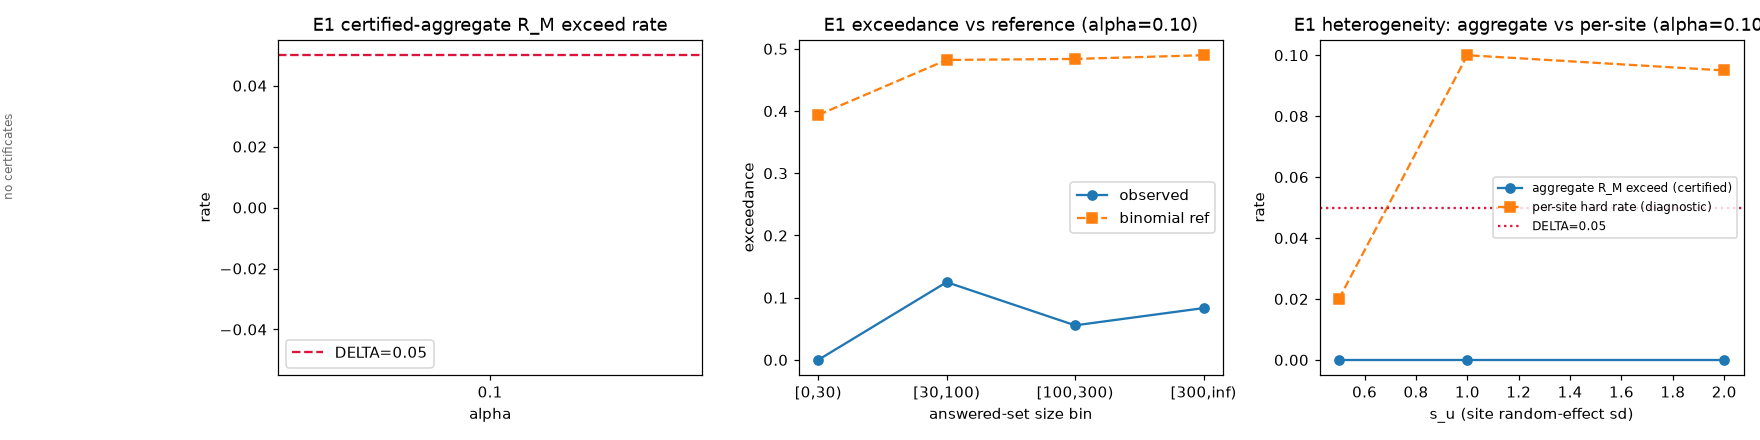
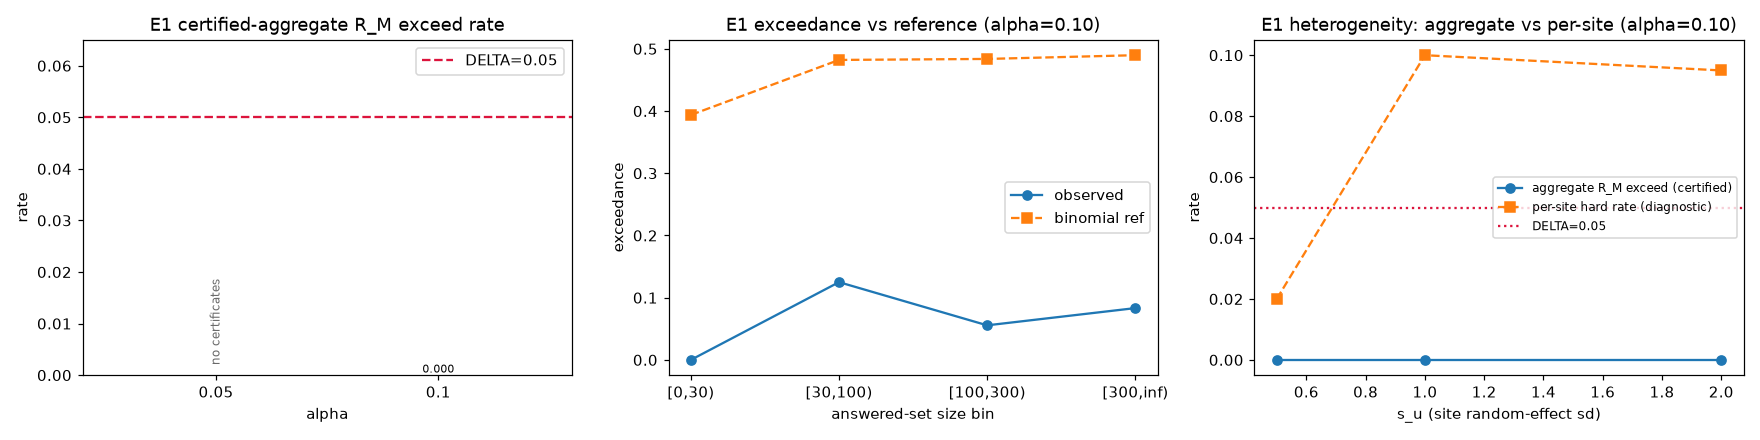
figures: E1/E2/E3 rendering defects fixed; E4 operating-point guide; E6 coverage panel
Numeric category axes so a nan bar cannot eat its tick; "no certificates"
markers moved into axes coordinates (get_xaxis_transform); real bars value-
labeled so a true 0.0 is a labeled zero, not an absence; explicit xlim/ylim
so autoscale cannot clip annotations. E2 gains an on-figure BBSE decline
annotation computed from the run summary (correct under --quick) and a
null-shift guide; E3 title shortened to render in full; E4 marks the
208-site operating point; E6 gains the per-site-coverage panel.

Full R=200 grid re-run: every CSV/JSON byte-identical, summary.md moved
only its _run.utc stamps (and shed the stale "(preserved)" headers from
the last partial rerun), provenance.json now records the whole grid.

diff --git a/experiments/run_synthetic.py b/experiments/run_synthetic.py
@@ -293,13 +293,21 @@ def run_E1(out, quick):
     fig, ax = plt.subplots(1, 3, figsize=(16, 4))
     alphas = list(ALPHA_LADDER)
     rm_bars = [summary[a]["rm_exceed_rate"] for a in alphas]
-    ax[0].bar([str(a) for a in alphas],
-              [np.nan if v is None else v for v in rm_bars],
+    xpos = np.arange(len(alphas))   # numeric x: a nan bar must not eat its tick
+    ax[0].bar(xpos, [np.nan if v is None else v for v in rm_bars],
               color="#4477aa")
+    ax[0].set_xticks(xpos); ax[0].set_xticklabels([str(a) for a in alphas])
+    ax[0].set_xlim(-0.6, len(alphas) - 0.4)   # autoscale ignores the nan bars
+    real = [v for v in rm_bars if v is not None]
+    ax[0].set_ylim(0.0, max(real + [DELTA]) * 1.3)
     for i, v in enumerate(rm_bars):
         if v is None:                     # rung never certified: no bar, say so
-            ax[0].text(i, DELTA * 0.05, "no certificates", ha="center",
-                       va="bottom", rotation=90, fontsize=8, color="dimgray")
+            ax[0].text(i, 0.03, "no certificates", ha="center",
+                       va="bottom", rotation=90, fontsize=8, color="dimgray",
+                       transform=ax[0].get_xaxis_transform())
+        else:                             # a true 0.0 bar has zero height --
+            ax[0].text(i, v, f"{v:.3f}",  # label it or it reads as absence
+                       ha="center", va="bottom", fontsize=7)
     ax[0].axhline(DELTA, color="crimson", ls="--", label=f"DELTA={DELTA}")
     ax[0].set_title("E1 certified-aggregate R_M exceed rate")
     ax[0].set_xlabel("alpha"); ax[0].set_ylabel("rate"); ax[0].legend()
@@ -443,14 +451,29 @@ def run_E2(out, quick):
                   width, label=mode, color=color)
         for i, v in enumerate(vals):
             if v is None:                 # rung never certified: no bar, say so
-                ax[0].text(xpos[i] + dx, DELTA * 0.05, "no certificates",
+                ax[0].text(xpos[i] + dx, 0.03, "no certificates",
                            ha="center", va="bottom", rotation=90, fontsize=7,
-                           color="dimgray")
+                           color="dimgray",
+                           transform=ax[0].get_xaxis_transform())
+            else:                         # a true 0.0 bar has zero height --
+                ax[0].text(xpos[i] + dx, v, f"{v:.3f}",   # label it or it reads
+                           ha="center", va="bottom", fontsize=6)  # as absence
     ax[0].axhline(DELTA, color="black", ls="--", label=f"DELTA={DELTA}")
     ax[0].set_xticks(xpos); ax[0].set_xticklabels([str(a) for a in alphas])
+    ax[0].set_xlim(-0.6, len(alphas) - 0.4)   # autoscale ignores the nan bars
+    real = [summary[m][a]["hard_violation_rate"]
+            for m in ("baseline", "bbse") for a in alphas
+            if summary[m][a]["hard_violation_rate"] is not None]
+    ax[0].set_ylim(0.0, max(real + [DELTA]) * 1.3)
     ax[0].set_title(f"E2 hard-violation rate at shift -> {SHIFT_BASE}")
     ax[0].set_xlabel("alpha"); ax[0].set_ylabel("hard-violation rate")
     ax[0].legend()
+    bb = summary["bbse"][0.10]            # computed, not copied: stays correct
+    ax[0].text(0.02, 0.98,                # under --quick's smaller R
+               f"BBSE at this shift: declined {R - bb['n_certified']}/{R}, "
+               f"certify-and-violate {bb['joint_certify_and_hard_rate']:.3f}",
+               transform=ax[0].transAxes, ha="left", va="top", fontsize=7,
+               color="#4477aa")
     bases = [e["target_base"] for e in sweep]
     _p = lambda v: np.nan if v is None else v
     ax[1].plot(bases, [_p(e["baseline"]["hard_violation_rate"])
@@ -464,6 +487,8 @@ def run_E2(out, quick):
                        for e in sweep], "s-", color="#4477aa",
                label="bbse certify-and-violate")
     ax[1].axhline(DELTA, color="black", ls=":", label=f"DELTA={DELTA}")
+    ax[1].axvline(E2_SHIFT_SWEEP[0], color="grey", ls=":", lw=1,
+                  label="null shift (source rate)")
     ax[1].set_title("E2 magnitude sweep (alpha=0.10)")
     ax[1].set_xlabel("target base rate (source 0.095)")
     ax[1].set_ylabel("rate"); ax[1].legend(fontsize=7)
@@ -541,14 +566,21 @@ def run_E3(out, quick):
     fig, ax = plt.subplots(figsize=(7, 4))
     alphas = list(ALPHA_LADDER)
     hv_bars = [summary[a]["hard_violation_rate"] for a in alphas]
-    ax.bar([str(a) for a in alphas],
-           [np.nan if v is None else v for v in hv_bars], color="#ee8866")
+    xpos = np.arange(len(alphas))   # numeric x: a nan bar must not eat its tick
+    ax.bar(xpos, [np.nan if v is None else v for v in hv_bars], color="#ee8866")
+    ax.set_xticks(xpos); ax.set_xticklabels([str(a) for a in alphas])
+    ax.set_xlim(-0.6, len(alphas) - 0.4)      # autoscale ignores the nan bars
+    real = [v for v in hv_bars if v is not None]
+    ax.set_ylim(0.0, max(real + [DELTA]) * 1.15)
     for i, v in enumerate(hv_bars):
         if v is None:                     # rung never certified: no bar, say so
-            ax.text(i, DELTA * 0.05, "no certificates", ha="center",
-                    va="bottom", rotation=90, fontsize=8, color="dimgray")
+            ax.text(i, 0.03, "no certificates", ha="center",
+                    va="bottom", rotation=90, fontsize=8, color="dimgray",
+                    transform=ax.get_xaxis_transform())
+        else:
+            ax.text(i, v, f"{v:.3f}", ha="center", va="bottom", fontsize=8)
     ax.axhline(DELTA, color="black", ls="--", label=f"DELTA={DELTA}")
-    ax.set_title("E3 concept-shift negative control (certificate should FAIL)")
+    ax.set_title("E3 concept-shift negative control (should FAIL)")
     ax.set_xlabel("alpha"); ax.set_ylabel("hard-violation rate"); ax.legend()
     fig.tight_layout(); fig.savefig(os.path.join(out, "E3_concept_shift.png"),
                                     dpi=110); plt.close(fig)
@@ -614,6 +646,9 @@ def run_E4(out, quick):
     ax[0].axvspan(min(sweep), min(gate_min_sites, max(sweep)), alpha=0.12,
                   color="grey",
                   label=f"< {MIN_CAL_CLUSTERS}-cluster gate")
+    ax[0].axvline(ANCHOR_SITES, color="grey", ls=":", lw=1,
+                  label=f"operating point ({ANCHOR_SITES} sites)")
+    ax[1].axvline(ANCHOR_SITES, color="grey", ls=":", lw=1)
     ax[0].set_title("E4 certify rate vs cluster count")
     ax[0].set_xlabel("n_sites"); ax[0].set_ylabel("certify rate"); ax[0].legend()
     ax[1].set_title("E4 mean coverage vs cluster count")
@@ -875,14 +910,24 @@ def run_E6(out, quick):
     with open(os.path.join(out, "E6_composition.json"), "w") as fh:
         json.dump(dict(size_bins=bin_rows, composition=comp_json), fh, indent=2)
 
-    fig, ax = plt.subplots(figsize=(7, 4))
+    fig, ax = plt.subplots(1, 2, figsize=(11, 4))
     labels = [b["size_bin"] for b in bin_rows]
+    xpos = np.arange(len(labels))   # numeric x: a nan bar must not eat its tick
     heights = [b["mean_answered_err"] if b["mean_answered_err"] is not None
                else np.nan for b in bin_rows]           # empty bins -> no bar
-    ax.bar(labels, heights, color="#66ccee")
-    ax.axhline(tau_and_alpha(op), color="crimson", ls="--", label="alpha")
-    ax.set_title("E6 mean answered error by site-size bin")
-    ax.set_xlabel("site-size bin"); ax.set_ylabel("answered error"); ax.legend()
+    ax[0].bar(xpos, heights, color="#66ccee")
+    ax[0].set_xticks(xpos); ax[0].set_xticklabels(labels)
+    ax[0].axhline(tau_and_alpha(op), color="crimson", ls="--", label="alpha")
+    ax[0].set_title("E6 mean answered error by site-size bin")
+    ax[0].set_xlabel("site-size bin"); ax[0].set_ylabel("answered error")
+    ax[0].legend()
+    covs = [b["mean_coverage"] if b["mean_coverage"] is not None else np.nan
+            for b in bin_rows]                          # empty bins -> no bar
+    ax[1].bar(xpos, covs, color="#66ccee")
+    ax[1].set_xticks(xpos); ax[1].set_xticklabels(labels)
+    ax[1].set_ylim(0.0, 1.0)
+    ax[1].set_title("E6 mean per-site coverage by site-size bin")
+    ax[1].set_xlabel("site-size bin"); ax[1].set_ylabel("coverage")
     fig.tight_layout(); fig.savefig(os.path.join(out, "E6_fairness.png"),
                                     dpi=110); plt.close(fig)
     return dict(tau_star=round(float(tau_star), 4),

diff --git a/experiments/out/summary.md b/experiments/out/summary.md
@@ -4,12 +4,12 @@
 - seed: 20260721
 - alpha ladder: (0.05, 0.1), delta: 0.05
 
-## E1 (preserved from an earlier run)
+## E1
 ```json
 {
   "_run": {
     "mode": "FULL",
-    "utc": "2026-07-30T17:53:08+00:00"
+    "utc": "2026-08-10T18:39:49+00:00"
   },
   "R": 200,
   "eval_sites": 200,
@@ -91,12 +91,12 @@
 }
 ```
 
-## E2 (preserved from an earlier run)
+## E2
 ```json
 {
   "_run": {
     "mode": "FULL",
-    "utc": "2026-07-30T18:00:01+00:00"
+    "utc": "2026-08-10T18:39:49+00:00"
   },
   "R": 200,
   "target_base_rate": 0.22,
@@ -257,12 +257,12 @@
 }
 ```
 
-## E3 (preserved from an earlier run)
+## E3
 ```json
 {
   "_run": {
     "mode": "FULL",
-    "utc": "2026-07-30T18:00:01+00:00"
+    "utc": "2026-08-10T18:39:49+00:00"
   },
   "R": 200,
   "concept_intercept": 2.0,
@@ -286,12 +286,12 @@
 }
 ```
 
-## E4 (preserved from an earlier run)
+## E4
 ```json
 {
   "_run": {
     "mode": "FULL",
-    "utc": "2026-07-30T17:53:08+00:00"
+    "utc": "2026-08-10T18:39:49+00:00"
   },
   "R": 200,
   "sweep": [
@@ -376,12 +376,12 @@
 }
 ```
 
-## E5 (preserved from an earlier run)
+## E5
 ```json
 {
   "_run": {
     "mode": "FULL",
-    "utc": "2026-07-31T05:23:38+00:00"
+    "utc": "2026-08-10T18:39:49+00:00"
   },
   "tau_star": 0.55,
   "n_answered": 200,
@@ -438,7 +438,7 @@
 {
   "_run": {
     "mode": "FULL",
-    "utc": "2026-08-02T01:25:30+00:00"
+    "utc": "2026-08-10T18:39:49+00:00"
   },
   "tau_star": 0.55,
   "size_bins": [
@@ -475,12 +475,12 @@
 }
 ```
 
-## E7 (preserved from an earlier run)
+## E7
 ```json
 {
   "_run": {
     "mode": "FULL",
-    "utc": "2026-07-30T17:53:08+00:00"
+    "utc": "2026-08-10T18:39:49+00:00"
   },
   "R": 200,
   "record_sample": 2000,
